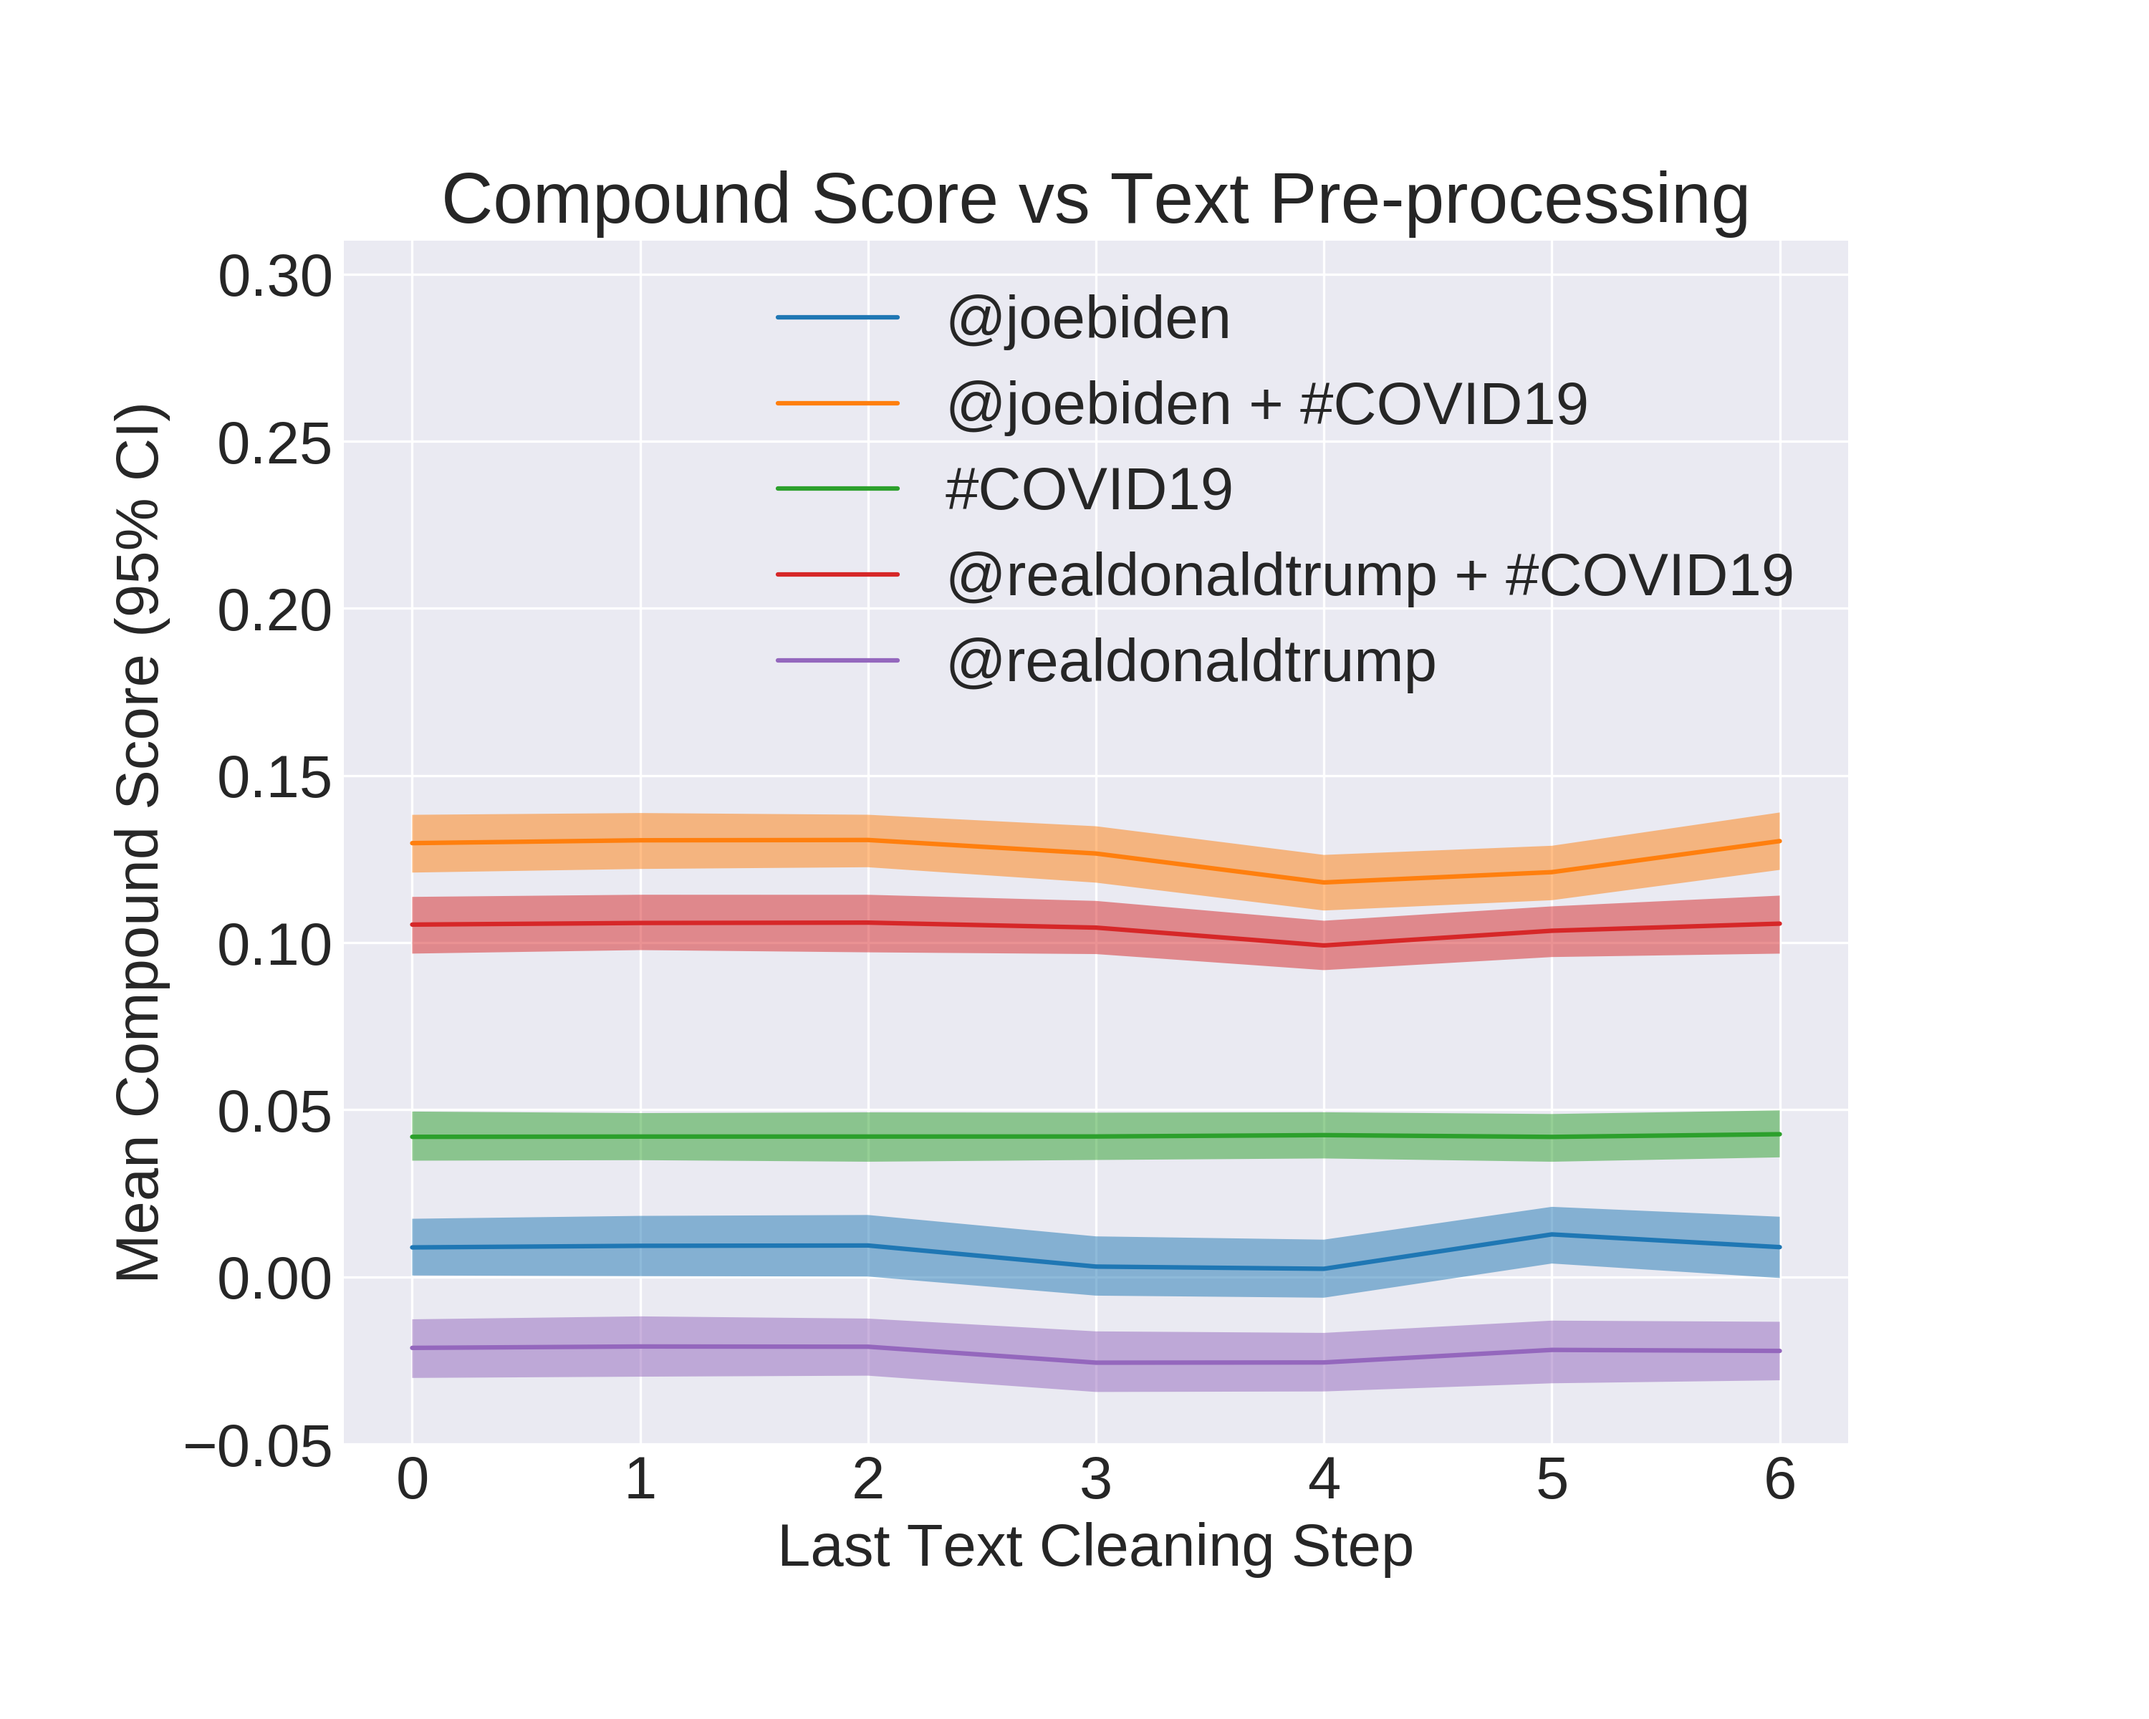
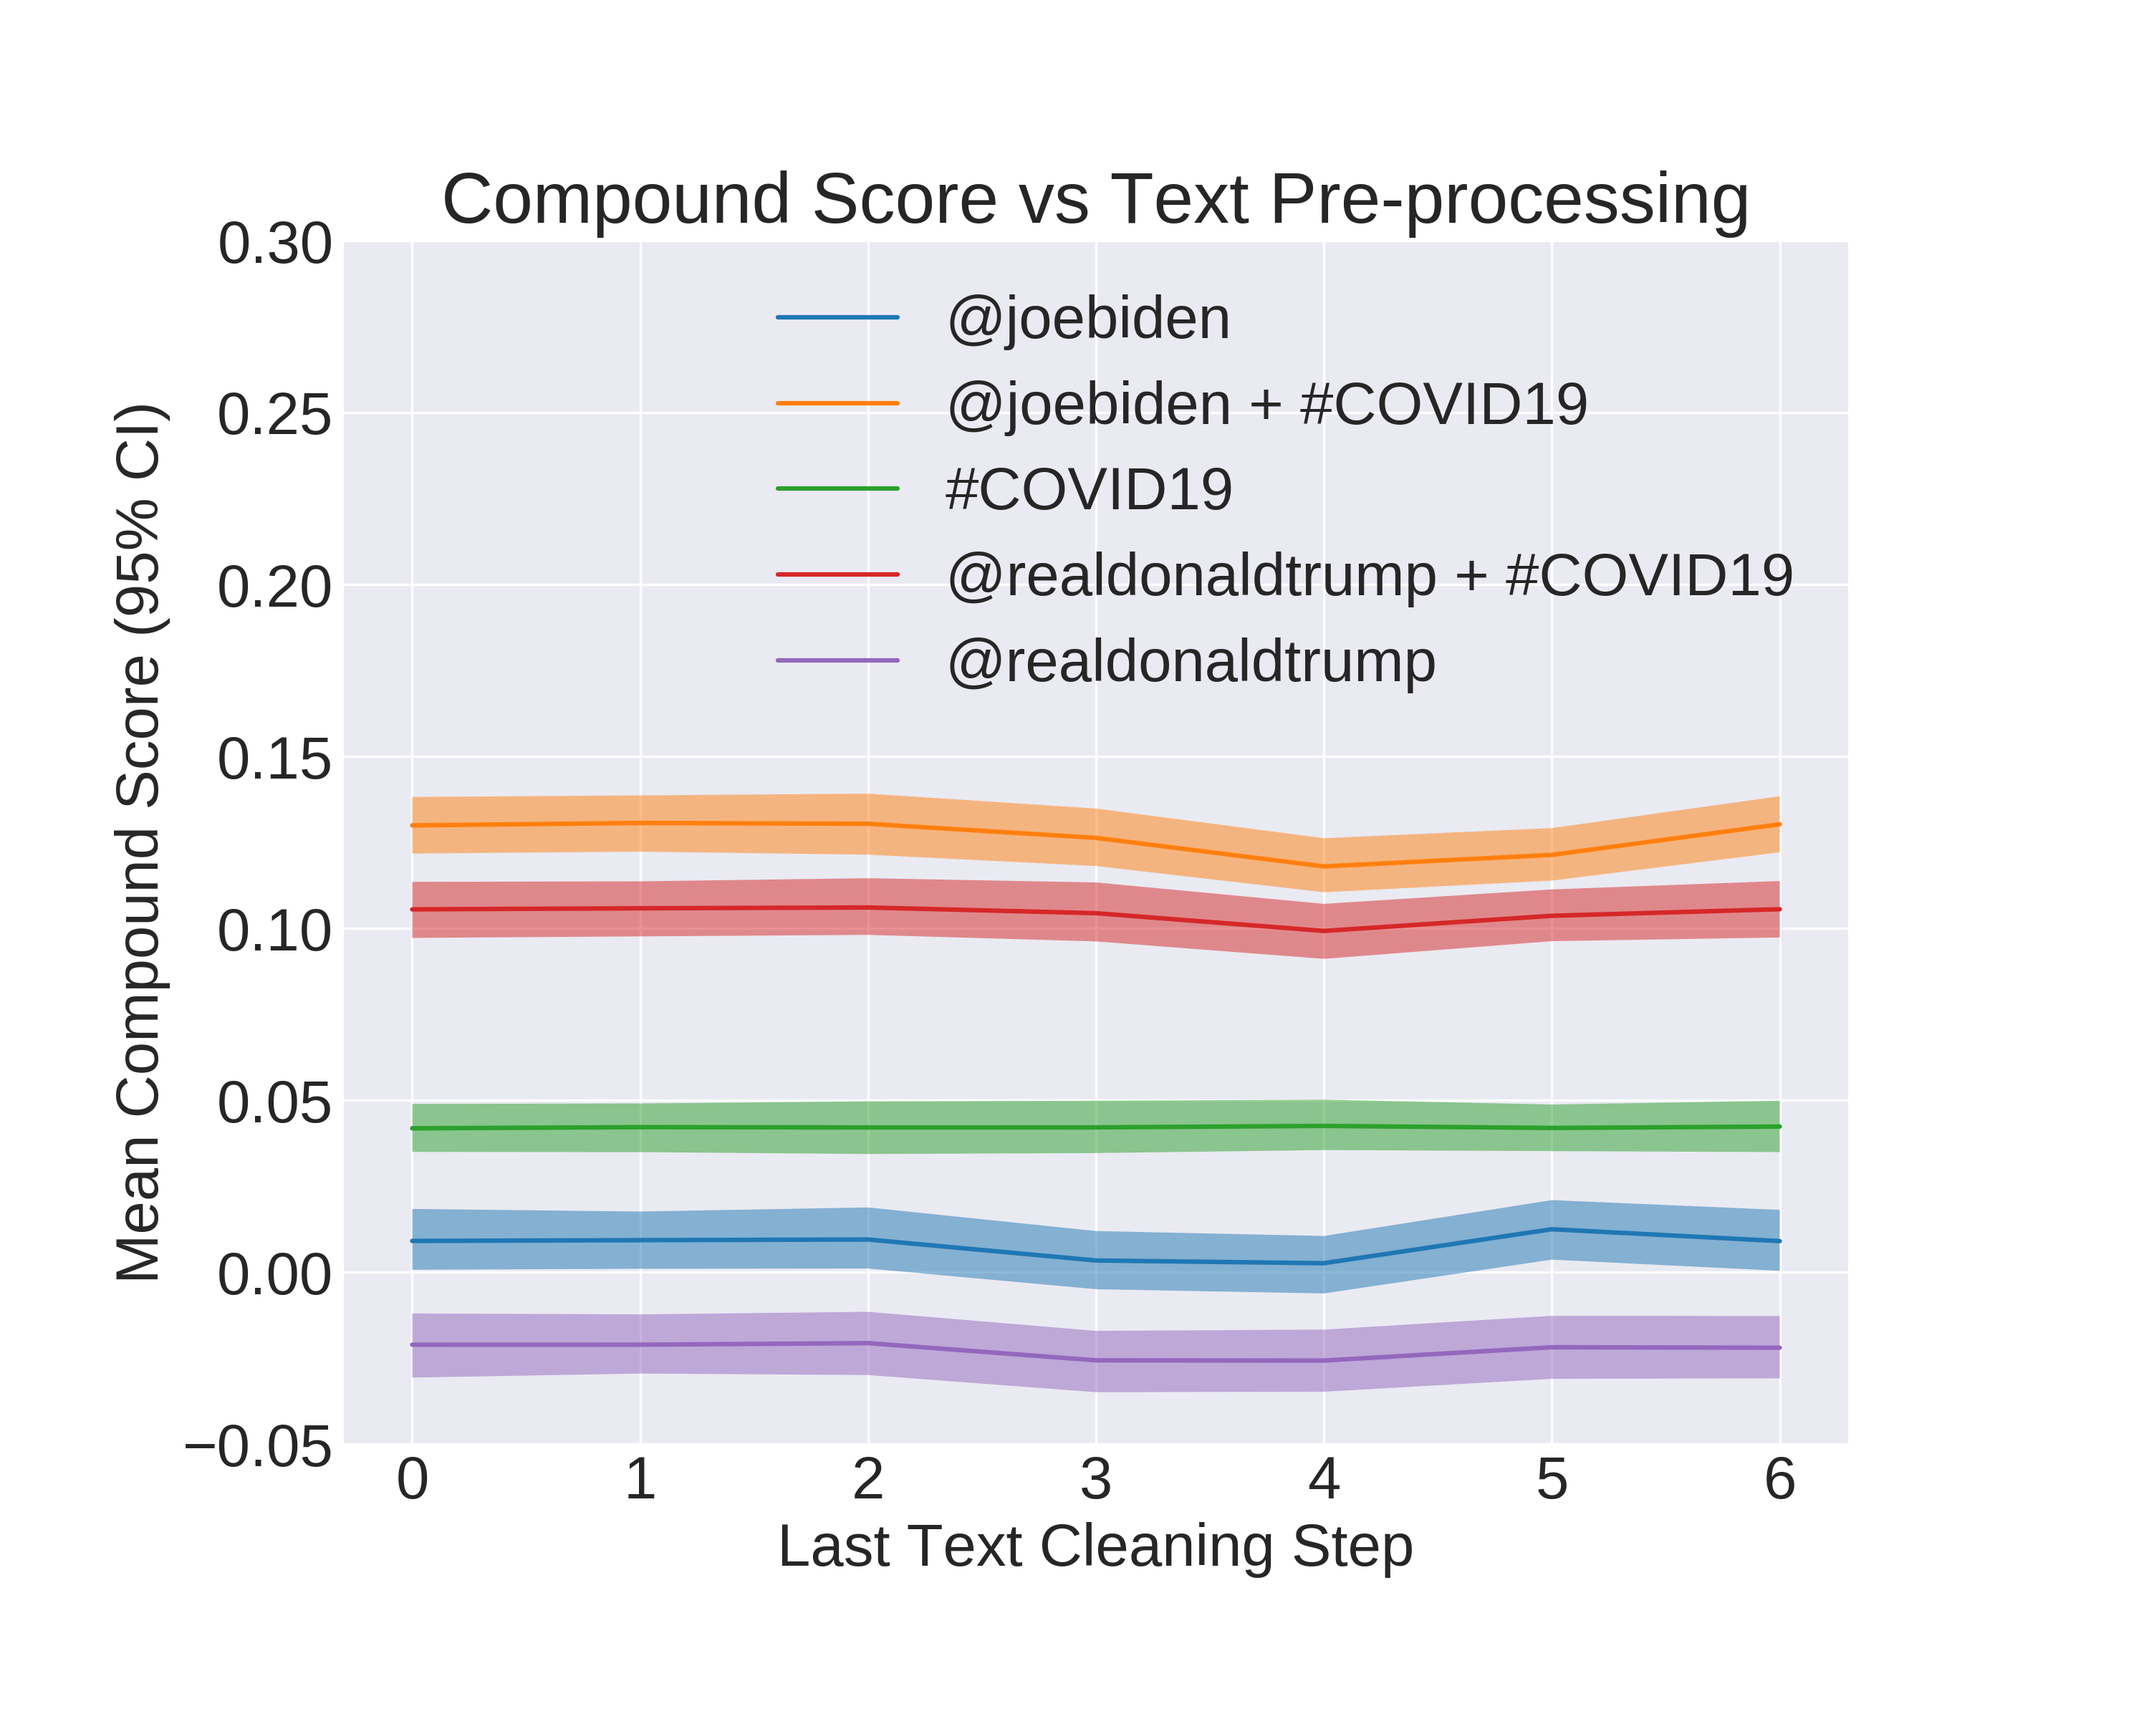
fixing cleaner

diff --git a/src/co_data_analysis.py b/src/co_data_analysis.py
@@ -7,7 +7,7 @@ import matplotlib.pyplot as plt
 plt.style.use('seaborn-darkgrid')
 plt.rcParams.update({'font.size': 20})
 
-from plotting_functions import make_boxplot, save_fig, make_hist, make_ci_lineplot
+from plotting_functions import make_boxplot, save_fig, make_hist, make_ci_lineplot, make_hor_barchart
 from TextCleaner import TextCleaner
 from vaderSentiment.vaderSentiment import SentimentIntensityAnalyzer
 
@@ -81,7 +81,7 @@ def make_sent_sensitivity_array (text_df, treatment, sentiment_type, num_resampl
         vader_df = tweet_col_to_vader_df(analyzer, clean_tweet_col)
 
         bootstrap_samples = bootstrap(vader_df[sentiment_type],resamples=num_resamples)
-        bootstrap_sample_means = list(map(lambda x: np.std(x)/(num_resamples**0.5), bootstrap_samples))
+        bootstrap_sample_means = list(map(lambda x: np.mean(x), bootstrap_samples))
         # bootstrap_sample_means = list(np.array(bootstrap_sample_means) / (num_resamples**0.5))
 
         sample_means_array[:,step-1] = bootstrap_sample_means
@@ -105,41 +105,47 @@ if __name__ == '__main__':
 
     colorado_df = pd.DataFrame.from_dict(colorado_dict)
 
+    cleaner = TextCleaner()
+
     '''
     Plotting fig 1: Raw (unprocessed tweets)
     '''
-    # fig, ax = plt.subplots(3,1, figsize=(10,22), sharex=True)
+    fig, ax = plt.subplots(3,1, figsize=(10,22), sharex=True)
 
-    # fig_pos_lst = [[0.25, 0.67, 0.7, 0.30],
-    #               [0.25, 0.35, 0.7, 0.30],
-    #               [0.25, 0.03, 0.7, 0.30]]
-
-
-    # for i, treatment in enumerate(['@joebiden', '#COVID19', '@realdonaldtrump']):
-    #     total_tweet_string = colorado_df[treatment].str.cat(sep=' ')
-    #     total_tweet_list = total_tweet_string.split()
-    #     words, counts = to_count_list(total_tweet_list)
-    #     if i == 2:
-    #         make_hor_barchart(ax[i],fig_pos_lst[i],words[:25][::-1],counts[:25][::-1],'Relative Frequency (a.u.)',f'Top 25 Words for {treatment}')
-    #     else:
-    #         make_hor_barchart(ax[i],fig_pos_lst[i],words[:25][::-1],counts[:25][::-1],'',f'Top 25 Words for {treatment}')
-    # save_fig(f'{state}_single_word_raw_bar.png')
-
-    # fig, ax = plt.subplots(2,1, figsize=(10,22), sharex=True)
-
-    # fig_pos_lst = [[0.10, 0.51, 0.8, 0.30],
-    #               [0.10, 0.18, 0.8, 0.30]]
+    fig_pos_lst = [[0.25, 0.67, 0.7, 0.30],
+                  [0.25, 0.35, 0.7, 0.30],
+                  [0.25, 0.03, 0.7, 0.30]]
 
 
-    # for i, treatment in enumerate(['@joebiden + #COVID19', '@realdonaldtrump + #COVID19']):
-    #     total_tweet_string = colorado_df[treatment].str.cat(sep=' ')
-    #     total_tweet_list = total_tweet_string.split()
-    #     words, counts = to_count_list(total_tweet_list)
-    #     if i == 1:
-    #         make_hor_barchart(ax[i],fig_pos_lst[i],words[:25][::-1],counts[:25][::-1],'Relative Frequency (a.u.)',f'Top 25 Words for {treatment}')
-    #     else:
-    #         make_hor_barchart(ax[i],fig_pos_lst[i],words[:25][::-1],counts[:25][::-1],'',f'Top 25 Words for {treatment}')
-    # save_fig(fig,f'{state}_multi_word_raw_bar.png')
+    for i, treatment in enumerate(['@joebiden', '#COVID19', '@realdonaldtrump']):
+        clean_tweet_col = colorado_df[treatment].apply(lambda x: cleaner.clean_tweets(x))
+        total_tweet_string = clean_tweet_col.str.cat(sep=' ')
+        total_tweet_list = total_tweet_string.split()
+        words, counts = to_count_list(total_tweet_list)
+        if i == 2:
+            make_hor_barchart(ax[i],fig_pos_lst[i],words[:25][::-1],counts[:25][::-1],'Relative Frequency (a.u.)',f'Top 25 Words for {treatment}')
+        else:
+            make_hor_barchart(ax[i],fig_pos_lst[i],words[:25][::-1],counts[:25][::-1],'',f'Top 25 Words for {treatment}')
+    save_fig(fig, f'{state}_single_word_cleaned_bar.png')
+
+    fig, ax = plt.subplots(2,1, figsize=(10,22), sharex=True)
+
+    fig_pos_lst = [[0.10, 0.51, 0.8, 0.30],
+                  [0.10, 0.18, 0.8, 0.30]]
+
+
+    for i, treatment in enumerate(['@joebiden + #COVID19', '@realdonaldtrump + #COVID19']):
+        clean_tweet_col = colorado_df[treatment].apply(lambda x: cleaner.clean_tweets(x))
+
+        total_tweet_string = clean_tweet_col.str.cat(sep=' ')
+        total_tweet_list = total_tweet_string.split()
+        words, counts = to_count_list(total_tweet_list)
+
+        if i == 1:
+            make_hor_barchart(ax[i],fig_pos_lst[i],words[:25][::-1],counts[:25][::-1],'Relative Frequency (a.u.)',f'Top 25 Words for {treatment}')
+        else:
+            make_hor_barchart(ax[i],fig_pos_lst[i],words[:25][::-1],counts[:25][::-1],'',f'Top 25 Words for {treatment}')
+    save_fig(fig,f'{state}_multi_word_clean_bar.png')
 
     '''
     VADER analysis on RAW tweets, Figure 2
@@ -172,7 +178,7 @@ if __name__ == '__main__':
     '''
     preprocess tweets, perform VADER analysis, and make sensitivity boxplots Figures 4,5
     '''
-    cleaner = TextCleaner()
+    
     num_resamples = 1000
     total_cleaning_steps = range(7)
 
@@ -187,27 +193,28 @@ if __name__ == '__main__':
     # #     save_fig(fig,f'{state}_2_mean_compound_boxplot.png')
 
     # Replace boxplots with shadded line plots
-    vader_param = 'pos'
-    single_term_dict = {1: '@joebiden', 3: '#COVID19', 5: '@realdonaldtrump'}
-    double_term_dict = {2: '@joebiden + #COVID19', 4: '@realdonaldtrump + #COVID19'}
 
     '''
     Removal steps:
     0 - nothing
     1 - lowercase
     2 - eliminate cultural abbreviations
-    3 - eliminate grammatical abbreviation
+    3 - eliminate grammatical abbreviationnp.std(x)/(num_resamples**0.5)
     4 - Removing Punctuations
     5 - removing special characters
     6 - removing stop words
     '''
 
-    fig, ax = plt.subplots(1,figsize=(10,8))
+    # vader_param_dict = {'pos':[(0.05, 0.25), 'Positive Proportion'],'neg': [(0.04, 0.18), 'Negative Proportion'], 'compound':[(-0.05, 0.30), 'Compound Score']}
 
-    for key, treatment in treatment_dict.items():
-        two_dim_array = make_sent_sensitivity_array(colorado_df, treatment, vader_param, num_resamples, total_cleaning_steps)
-        make_ci_lineplot(ax, treatment,two_dim_array,(0,0.01), total_cleaning_steps, 'SE Positive Proportion (95% CI)',title=f'Positive Proportion vs Text Pre-processing')
-    save_fig(fig, f'{state}_all_combo_positive_se_shaded_line_plot.png')
+    # for abbrev, lst in vader_param_dict.items():
+    #     fig, ax = plt.subplots(1,figsize=(10,8))
+
+    #     for key, treatment in treatment_dict.items():
+    #         two_dim_array = make_sent_sensitivity_array(colorado_df, treatment, abbrev, num_resamples, total_cleaning_steps)
+    #         make_ci_lineplot(ax, treatment,two_dim_array,lst[0], total_cleaning_steps, f'Mean {lst[1]} (95% CI)',title=f'{lst[1]} vs Text Pre-processing')
+
+    #     save_fig(fig, f'{state}_all_combo_{abbrev}_shaded_line_plot.png')
     '''
     Hypothesis tests, mean and variance - Think about some kind of Bayesian test
     '''

diff --git a/src/TextCleaner.py b/src/TextCleaner.py
@@ -19,7 +19,7 @@ class TextCleaner():
                              "mustn't":"must not"}
 
 
-    def clean_tweets(self, df_tweet_text, last_clean_step=5):
+    def clean_tweets(self, df_tweet_text, last_clean_step=6):
         '''
         This function will clean the text of tweets, with ability to very the last step of cleaning.
         order:
@@ -77,7 +77,7 @@ class TextCleaner():
 
             clean_text = ' '.join([word for word in without_nontext.split() if word not in stopwords])
         
-        words_greater_than_two_char = ' '.join([word for word in clean_text.split() if len(word) >= 2])
+        words_greater_than_two_char = ' '.join([word for word in clean_text.split() if len(word) >= 3])
 
         one_space_separated_tweet = ' '.join([word for word in words_greater_than_two_char.split()])
 
